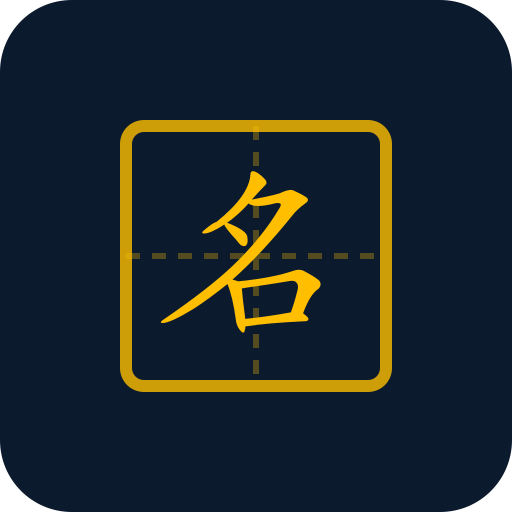
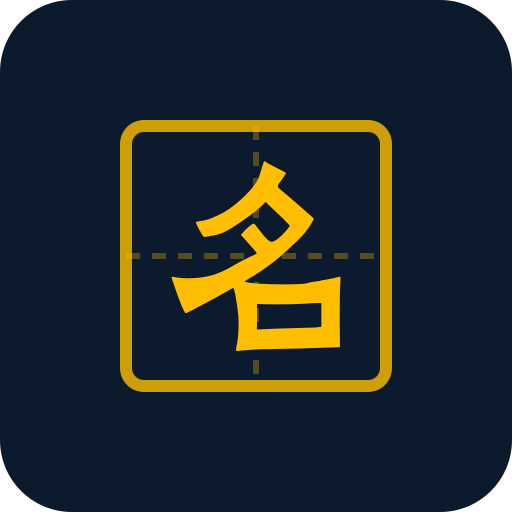
feat(expert-packs): 四张专家头像统一为田字格汉字系列（命/卦/宅/名）
上一版按域画了四种隐喻（命盘 / 卦象 / 罗盘与太极 / 田字格与「名」），风格不成
系列，且只有起名那张用字形、其余是几何图形。现统一为同一套设计：深蓝圆角底 +
金色田字格 + 本域汉字——本命「命」、占卜「卦」、风水「宅」、起名「名」。
风水取「宅」：看风水即看阳宅/阴宅，是风水本体（备选「向」偏坐向参数、「舆」为
堪舆雅称）。

- 新增 `scripts/gen_expert_avatar_svgs.py`：设计常量（配色、田字格几何、字高、
  字面表）与生成逻辑一处定义；字形取自阿里妈妈刀隶体（阿里巴巴免费商用字体，
  本仓不附带字体文件），经 `inkscape -T` 转轮廓路径后按字高 190 归一化居中。
  `make expert-avatars` 重建四份矢量源并栅格化，换字/改配色只改脚本顶部。
- 矢量源只剩路径：不出现 `<text>`、`font-family`、`dominant-baseline`，上一版
  起名头像的字体依赖问题在四张上都不会再有；`build-workbuddy-avatars.sh`（栅格化
  门）与 `check_expert_docs.py`（make check）继续 fail-closed。
- `expert-packs/README.md` 头像节改写：四个字的取义、字体来源与许可、生成入口与
  改造入口。

`make check`、`pytest tests`、`lint-python` 全绿；四张 PNG 均为 512×512、≤16KB。

Changed region(s): [[0.3125, 0.3125, 0.6875, 0.6875]]

diff --git a/scripts/gen_expert_avatar_svgs.py b/scripts/gen_expert_avatar_svgs.py
@@ -1,0 +1,142 @@
+#!/usr/bin/env python3
+"""重新生成四张专家头像的矢量源 `expert-packs/liki-*/avatars/expert.svg`。
+
+四张头像是同一套设计：深蓝圆角底 + 金色田字格 + 一个本域汉字（命 / 卦 / 名 /
+宅）。字形取自阿里妈妈刀隶体（`Alimama DaoLiTi`，阿里巴巴免费商用字体）：先用
+`inkscape -T` 把字转成正体轮廓路径，再按字高归一化居中，于是矢量源里不出现
+`<text>`、字体或 `dominant-baseline`——市场宿主的渲染字体不可控，取字必须落在
+路径上（由 `scripts/build-workbuddy-avatars.sh` 的栅格化门守护）。
+
+    python3 scripts/gen_expert_avatar_svgs.py    # 重写四份矢量源（幂等）
+    make expert-avatars                          # 再跑一遍栅格化出 expert.png
+
+改字面（换字）只改 `GLYPHS`；改配色/尺寸改本文件顶部的设计常量，然后重跑。
+"""
+from __future__ import annotations
+
+import hashlib
+import re
+import shutil
+import subprocess
+import tempfile
+from pathlib import Path
+
+ROOT = Path(__file__).resolve().parents[1]
+PACKS = ROOT / "expert-packs"
+
+# 顶层领域 → 头像用字（本域汉字，见 expert-packs/README.md「头像」）。
+GLYPHS: tuple[tuple[str, str], ...] = (
+    ("natal", "命"),
+    ("divination", "卦"),
+    ("fengshui", "宅"),
+    ("naming", "名"),
+)
+
+FONT_FAMILY = "Alimama DaoLiTi"
+FONT_SIZE = 360  # 转路径时的字号；只影响中间精度，最终按 TARGET_HEIGHT 归一化
+TARGET_HEIGHT = 190  # 汉字在 512×512 画布上的目标字高
+CENTER = 256.0
+BACKDROP = "#0C1A2E"
+INK = "#FFBF00"
+
+TEMPLATE = """<svg xmlns="http://www.w3.org/2000/svg" width="512" height="512" viewBox="0 0 512 512">
+  <rect width="512" height="512" rx="72" fill="{backdrop}"/>
+  <rect x="126" y="126" width="260" height="260" rx="18" fill="none" stroke="{ink}" stroke-width="12" opacity="0.8"/>
+  <g stroke="{ink}" stroke-width="6" opacity="0.3" stroke-dasharray="14 12">
+    <line x1="256" y1="126" x2="256" y2="386"/>
+    <line x1="126" y1="256" x2="386" y2="256"/>
+  </g>
+  <!-- 田字格与「{glyph}」（{font}轮廓） -->
+  <g aria-label="{glyph}" fill="{ink}" transform="translate({tx},{ty}) scale({scale})">
+    <path d="{path}"/>
+  </g>
+</svg>
+"""
+
+
+def _command(name: str) -> str:
+    found = shutil.which(name)
+    if not found:
+        raise SystemExit(f"[expert-avatars] error: 需要 {name}，未找到")
+    return found
+
+
+def _font_file() -> Path:
+    """解析字体文件路径与指纹：轮廓可追溯，换字体版本时会显式变化。"""
+    fc_match = shutil.which("fc-match")
+    if fc_match:
+        out = subprocess.run(
+            [fc_match, "-f", "%{file}", FONT_FAMILY], check=True, capture_output=True, text=True
+        ).stdout.strip()
+        if out and Path(out).is_file():
+            return Path(out)
+    candidates = sorted((Path.home() / ".local/share/fonts").glob("AlimamaDaoLiTi*.ttf"))
+    candidates += sorted(Path("/usr/share/fonts").rglob("AlimamaDaoLiTi*.ttf"))
+    if not candidates:
+        raise SystemExit(
+            f"[expert-avatars] error: 缺少字体 {FONT_FAMILY}"
+            "（阿里妈妈刀隶体，免费商用：https://fonts.alibabagroup.com/）"
+        )
+    return candidates[0]
+
+
+def _glyph_outline(inkscape: str, glyph: str, workdir: Path) -> tuple[str, tuple[float, float, float, float]]:
+    """把单字转成正体轮廓路径，并返回它在原始坐标系里的包围盒。"""
+    src = workdir / "glyph.svg"
+    src.write_text(
+        '<svg xmlns="http://www.w3.org/2000/svg" width="512" height="512" viewBox="0 0 512 512">'
+        f'<text id="glyph" x="0" y="0" font-family="{FONT_FAMILY}" font-size="{FONT_SIZE}"'
+        f' fill="#000">{glyph}</text></svg>',
+        encoding="utf-8",
+    )
+    plain = workdir / "glyph-path.svg"
+    subprocess.run(
+        [inkscape, str(src), "-T", "--export-plain-svg", "--export-filename", str(plain)],
+        check=True,
+        capture_output=True,
+    )
+    match = re.search(r'<path\s+d="([^"]+)"', plain.read_text(encoding="utf-8"))
+    if not match:
+        raise SystemExit(f"[expert-avatars] error: 「{glyph}」未能转成路径（字体缺该字形？）")
+    path = re.sub(r"\s+", " ", match.group(1)).strip()
+    box = subprocess.run(
+        [inkscape, str(plain), "--query-id=glyph", "--query-x", "--query-y", "--query-width", "--query-height"],
+        check=True,
+        capture_output=True,
+        text=True,
+    ).stdout.split()
+    return path, tuple(float(value) for value in box)
+
+
+def main() -> int:
+    inkscape = _command("inkscape")
+    font = _font_file()
+    digest = hashlib.sha256(font.read_bytes()).hexdigest()[:16]
+    print(f"[expert-avatars] 字体 {font.name} sha256:{digest}…")
+
+    with tempfile.TemporaryDirectory() as tmp:
+        for domain, glyph in GLYPHS:
+            path, (x0, y0, width, height) = _glyph_outline(inkscape, glyph, Path(tmp))
+            scale = TARGET_HEIGHT / height
+            tx = round(CENTER - scale * (x0 + width / 2), 4)
+            ty = round(CENTER - scale * (y0 + height / 2), 4)
+            svg = TEMPLATE.format(
+                backdrop=BACKDROP,
+                ink=INK,
+                glyph=glyph,
+                font=FONT_FAMILY,
+                path=path,
+                tx=tx,
+                ty=ty,
+                scale=round(scale, 5),
+            )
+            target = PACKS / f"liki-{domain}" / "avatars" / "expert.svg"
+            if not target.parent.is_dir():
+                raise SystemExit(f"[expert-avatars] error: {target.parent} 不存在")
+            target.write_text(svg, encoding="utf-8")
+            print(f"  ✓ {target.relative_to(ROOT)} 「{glyph}」 字高 {height:.1f} → {TARGET_HEIGHT} (×{scale:.4f})")
+    return 0
+
+
+if __name__ == "__main__":
+    raise SystemExit(main())

diff --git a/expert-packs/README.md b/expert-packs/README.md
@@ -40,13 +40,18 @@
 ## 头像
 
 每个包的头像由同目录矢量源 `avatars/expert.svg` 生成（`make workbuddy-avatars` → 512×512
-PNG，8-bit RGBA，单张 ≤500KB，符合 WorkBuddy 头像规范），四个包各自一张、按域区分：
-命盘（本命）、卦象（占卜）、罗盘与太极（风水）、田字格与「名」（起名）。全部为项目自绘矢量，
-不含第三方素材，因此不附带额外许可义务。字形一律在源里转成路径，源内不出现 `<text>`、
-`font-family`、`dominant-baseline`——市场宿主的渲染字体不可控，靠系统字体取字会静默换字形或错位；
-`make workbuddy-avatars` 与 `make check`（`scripts/check_expert_docs.py`）都会拒绝带文本依赖的源。
-矢量源不参与 `sync-expert-packs` 生成；
-若换成人物插画，同样必须使用自有或已获授权的素材，并在包 `README.md` 记录来源。
+PNG，8-bit RGBA，单张 ≤500KB，符合 WorkBuddy 头像规范）。四张是同一套设计：深蓝圆角底 +
+金色田字格 + 一个本域汉字——**命**（本命）、**卦**（占卜）、**宅**（风水）、**名**（起名）。
+设计常量（底色、田字格几何、字高、字面表）集中在 `scripts/gen_expert_avatar_svgs.py`，
+`make expert-avatars` 据此重建四份矢量源并栅格化；换字、改配色只改该脚本顶部。
+
+汉字取自阿里妈妈刀隶体（`Alimama DaoLiTi`，阿里巴巴免费商用字体；本仓不附带字体文件）：
+生成时用 `inkscape -T` 把字转成轮廓路径，源里只留路径——不出现 `<text>`、`font-family`、
+`dominant-baseline`。市场宿主的渲染字体不可控，靠系统字体取字会静默换字形或错位，
+因此 `make workbuddy-avatars` 与 `make check`（`scripts/check_expert_docs.py`）都会拒绝
+带文本依赖的源。田字格与配色为项目自绘、无第三方素材；字形轮廓的字体来源记录在此，
+矢量源不参与 `sync-expert-packs` 生成。若换成人物插画，同样必须使用自有或已获授权的素材，
+并在包 `README.md` 记录来源。
 
 ## 校验
 
